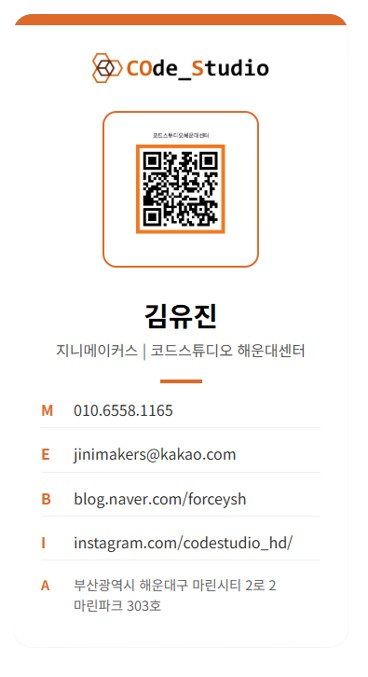
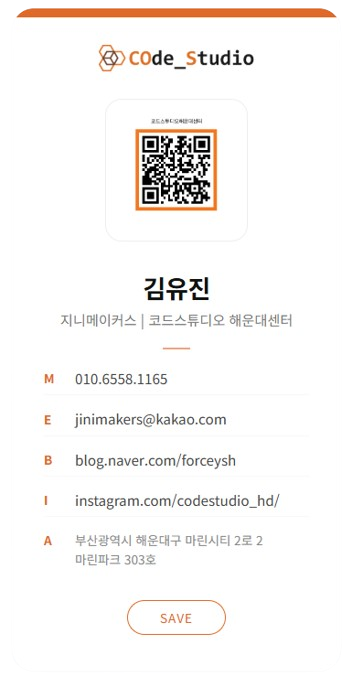
Add files via upload

diff --git a/index.html b/index.html
@@ -13,7 +13,7 @@
             align-items: center;
             min-height: 100vh;
             margin: 0;
-            background-color: #f5f5f5;
+            background-color: #f8f9fa;
             font-family: 'Noto Sans KR', sans-serif;
             color: #222;
         }
@@ -21,104 +21,107 @@
         .business-card {
             background-color: #ffffff;
             width: 360px;
-            padding: 0 0 35px 0;
+            padding: 0 0 40px 0;
             box-sizing: border-box;
-            border-radius: 20px;
-            box-shadow: 0 20px 40px rgba(0,0,0,0.1);
+            border-radius: 24px;
+            box-shadow: 0 10px 30px rgba(0,0,0,0.05);
             overflow: hidden;
             text-align: center;
         }
 
         .top-bar {
-            height: 12px;
+            height: 10px;
             background-color: #df6928;
             width: 100%;
             margin-bottom: 30px;
         }
 
         .card-content {
-            padding: 0 30px;
+            padding: 0 35px;
         }
 
         .logo-container { margin-bottom: 25px; }
-        .logo-container img { width: 190px; height: auto; }
+        .logo-container img { width: 170px; height: auto; opacity: 0.9; }
 
         .qr-section {
             background-color: #fff;
             padding: 12px;
-            border: 2px solid #df6928;
-            border-radius: 15px;
+            border: 1.5px solid #eee;
+            border-radius: 18px;
             display: inline-block;
             margin-bottom: 25px;
         }
-        .qr-section img { width: 140px; height: 140px; display: block; }
+        .qr-section img { width: 130px; height: 130px; display: block; }
 
         .profile { margin-bottom: 20px; }
-        .name { font-size: 1.8rem; font-weight: 700; margin: 0 0 5px 0; color: #000; }
-        .company { font-size: 1rem; font-weight: 400; color: #555; margin: 0; }
+        .name { font-size: 1.7rem; font-weight: 700; margin: 0 0 4px 0; color: #111; letter-spacing: -0.5px; }
+        .company { font-size: 0.95rem; font-weight: 400; color: #777; margin: 0; }
 
-        .divider { width: 45px; height: 4px; background-color: #df6928; margin: 15px auto; }
+        .divider { width: 30px; height: 2px; background-color: #df6928; margin: 18px auto; opacity: 0.6; }
 
-        .contact-info { text-align: left; font-size: 1rem; line-height: 1.7; }
+        .contact-info { text-align: left; font-size: 0.95rem; line-height: 1.8; }
 
         .info-item {
             display: flex;
             align-items: center;
-            margin-bottom: 14px;
+            margin-bottom: 12px;
             text-decoration: none;
-            color: #333;
+            color: #444;
             transition: all 0.2s;
-            border-bottom: 1px solid #f0f0f0;
-            padding-bottom: 5px;
+            border-bottom: 1px solid #f8f8f8;
+            padding-bottom: 4px;
         }
 
-        .info-item:active {
-            background-color: #fffaf7;
-            color: #df6928;
-        }
+        .info-item:active { color: #df6928; }
 
         .info-item .label {
-            width: 25px;
+            width: 22px;
             font-weight: 700;
             color: #df6928;
-            margin-right: 10px;
+            margin-right: 12px;
             flex-shrink: 0;
+            font-size: 0.85rem;
         }
 
         .address-box {
             margin-top: 15px;
             text-align: left;
-            font-size: 0.9rem;
-            color: #666;
+            font-size: 0.85rem;
+            color: #888;
             line-height: 1.5;
             display: flex;
-            margin-bottom: 25px; /* 버튼과의 간격 */
+            margin-bottom: 30px;
         }
         .address-box .label {
-            width: 25px;
+            width: 22px;
             font-weight: 700;
             color: #df6928;
-            margin-right: 10px;
+            margin-right: 12px;
             flex-shrink: 0;
         }
 
-        /* 명함 다운로드 버튼 스타일 */
+        /* ✨ 세련된 SAVE 버튼 디자인 */
         .download-btn {
-            display: block;
-            background-color: #df6928;
-            color: #ffffff;
+            display: inline-flex;
+            align-items: center;
+            justify-content: center;
+            background-color: transparent;
+            color: #df6928;
             text-decoration: none;
-            font-weight: 700;
-            padding: 15px;
-            border-radius: 12px;
-            font-size: 1rem;
-            transition: background-color 0.3s;
-            box-shadow: 0 4px 10px rgba(223, 105, 40, 0.3);
+            font-weight: 500;
+            padding: 8px 35px; /* SAVE 글자에 맞춰 패딩 조정 */
+            border: 1.2px solid #df6928;
+            border-radius: 50px;
+            font-size: 0.85rem;
+            letter-spacing: 1px; /* 영문 SAVE의 세련미를 위해 자간 확대 */
+            transition: all 0.3s ease;
+            margin-top: 5px;
         }
 
-        .download-btn:active {
-            background-color: #b54a1a;
-            transform: scale(0.98);
+        .download-btn:hover, .download-btn:active {
+            background-color: #df6928;
+            color: #ffffff;
+            box-shadow: 0 5px 15px rgba(223, 105, 40, 0.2);
         }
 
         .links { margin-top: 5px; }
@@ -178,7 +181,7 @@
         </div>
 
         <a href="김유진-디지털명함(세로).PNG" download="김유진-디지털명함(세로).PNG" class="download-btn">
-            📥 명함 이미지 저장하기
+            SAVE
         </a>
     </div>
 </div>
